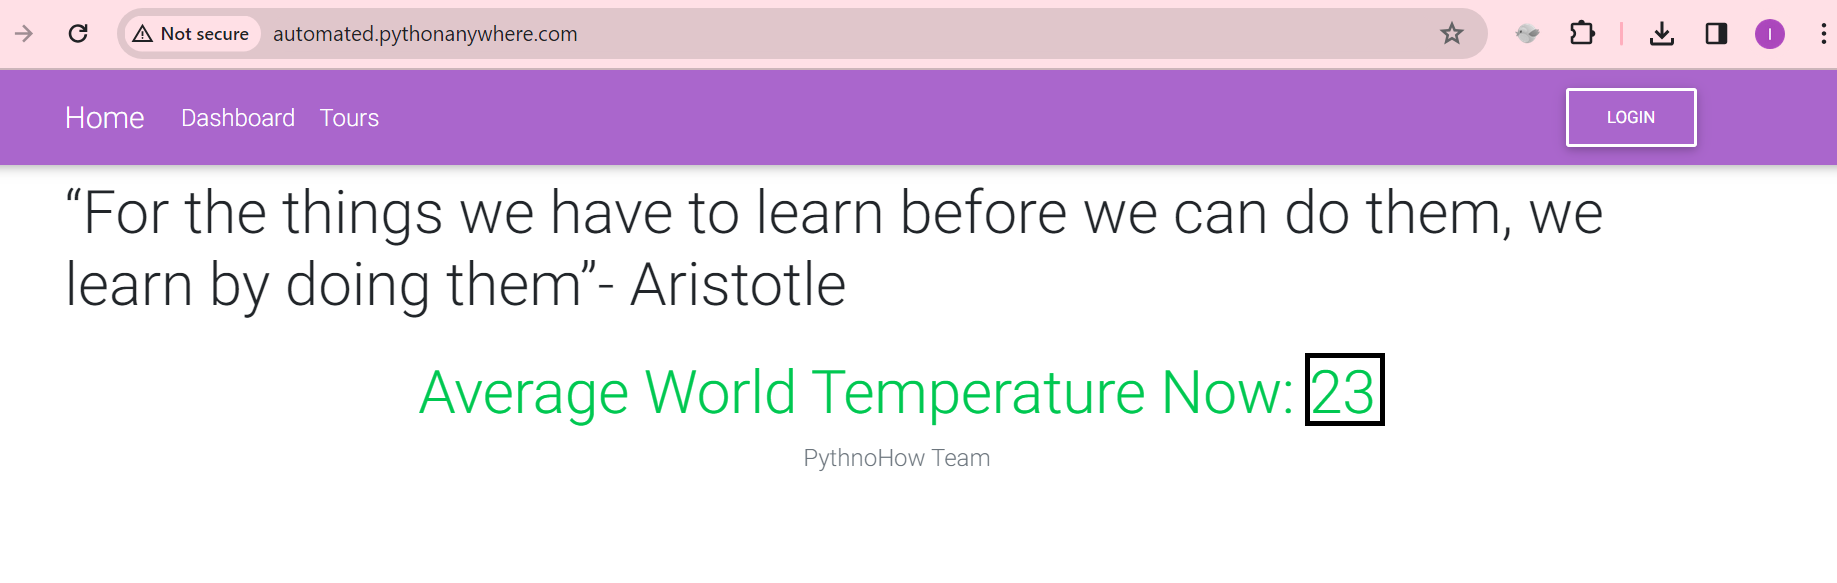
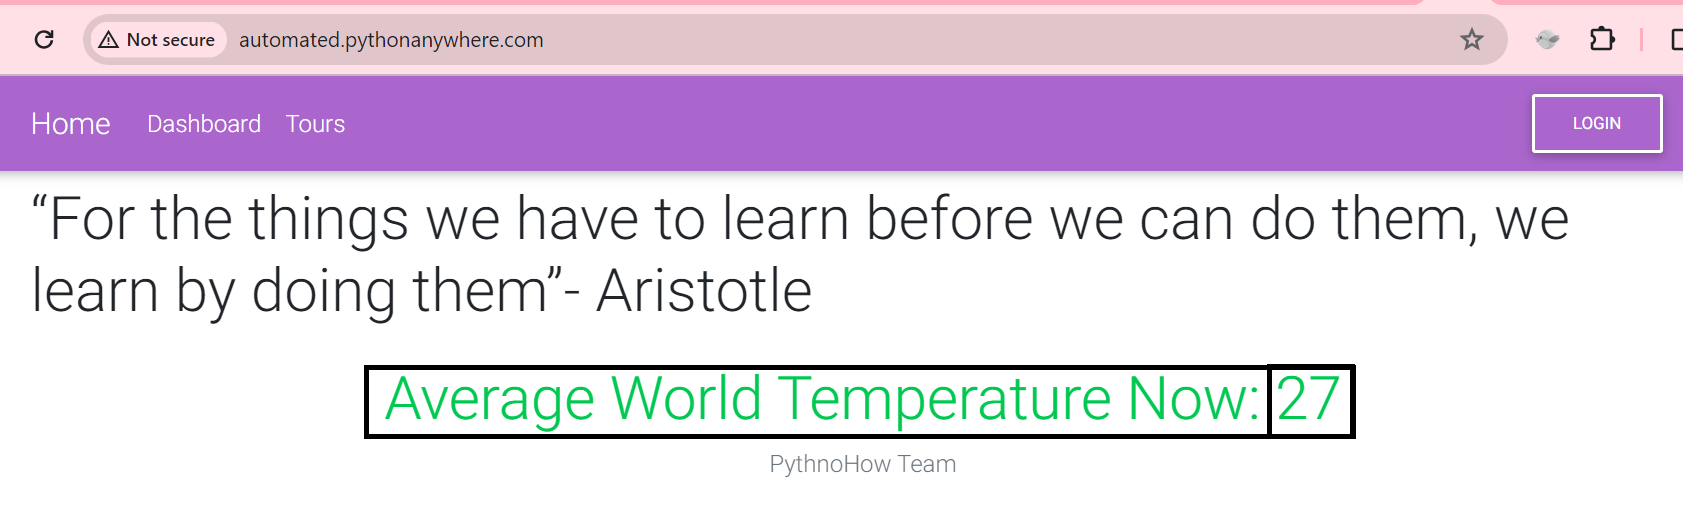
dynamic data

Changed region(s): [[0.0, 0.0, 1.0, 0.9178]]

diff --git a/01.Website-scrapping-with-selenium/main2.py b/01.Website-scrapping-with-selenium/main2.py
@@ -17,10 +17,15 @@ def get_driver():
     driver.get("http://automated.pythonanywhere.com")
     return driver
 
+def clean_text(text):
+###Extract only the temporature from text
+    output = float(text.split(": ")[1])
+    return output
+
 def main():
     driver = get_driver()
     time.sleep(2)
     element = driver.find_element(by="xpath", value="/html/body/div[1]/div/h1[2]")
-    return element.text
+    return clean_text(element.text)
 
 print(main())

diff --git a/01.Website-scrapping-with-selenium/readme.md b/01.Website-scrapping-with-selenium/readme.md
@@ -59,4 +59,7 @@ Then we create another function with a variable driver that calls the function g
 ![inspecting the element](./images/xpatch.png)
 ### Scapped Output
 ![Scapped output ](./images/scrapped-output2.png)
-
+### Update the script to split the output such that only the dynamic number is retured
+![dynamic text returned](./images/scriptupdate.png)
+### Scapped Output
+![Scapped output ](./images/scrapped-output3.png)
